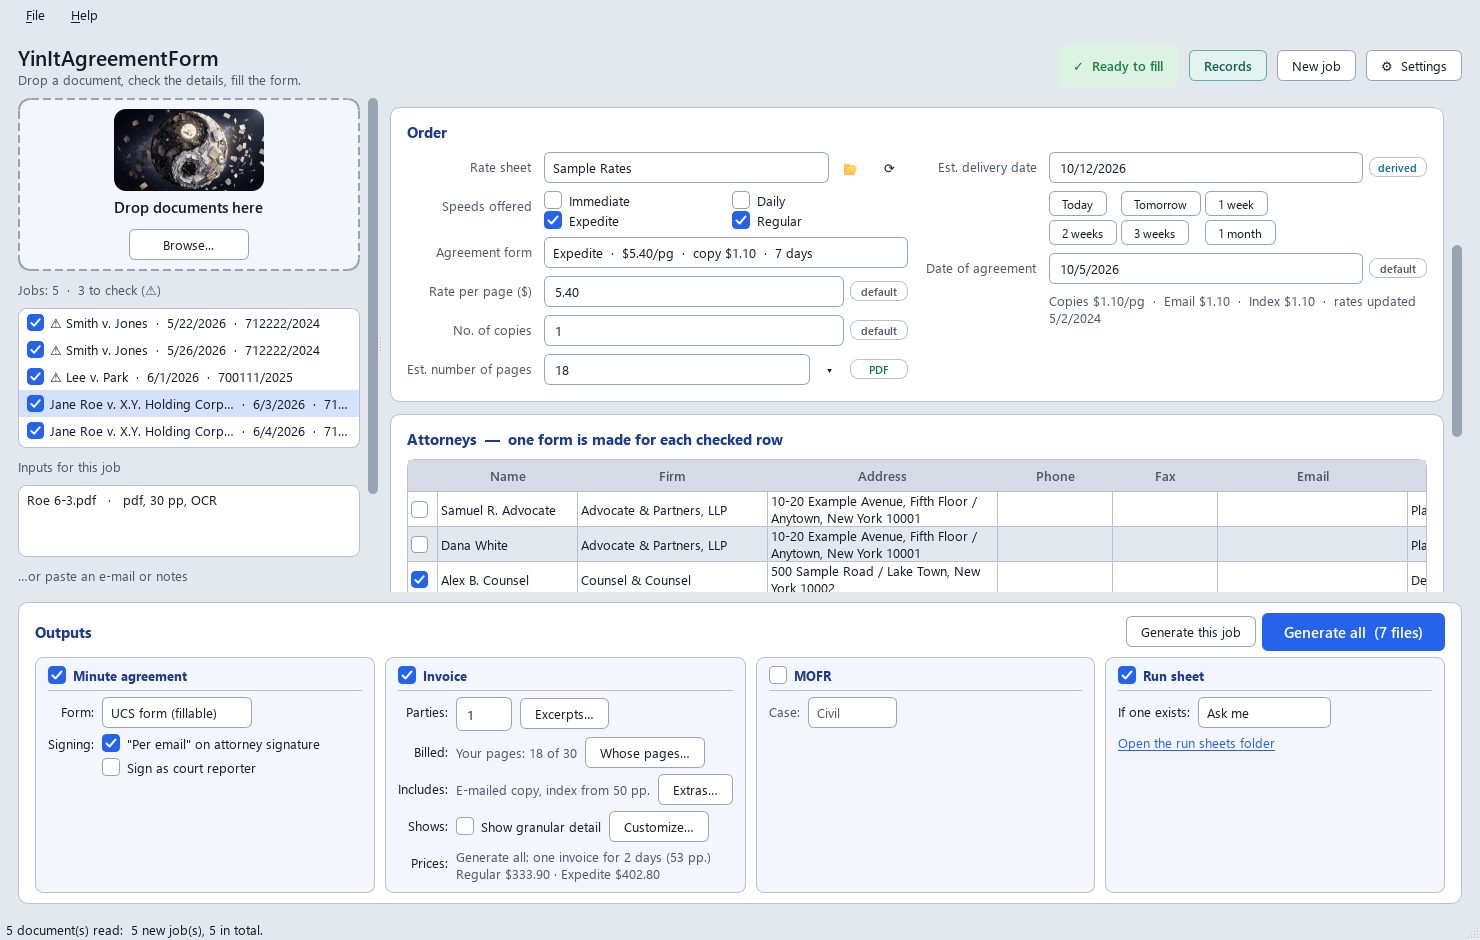
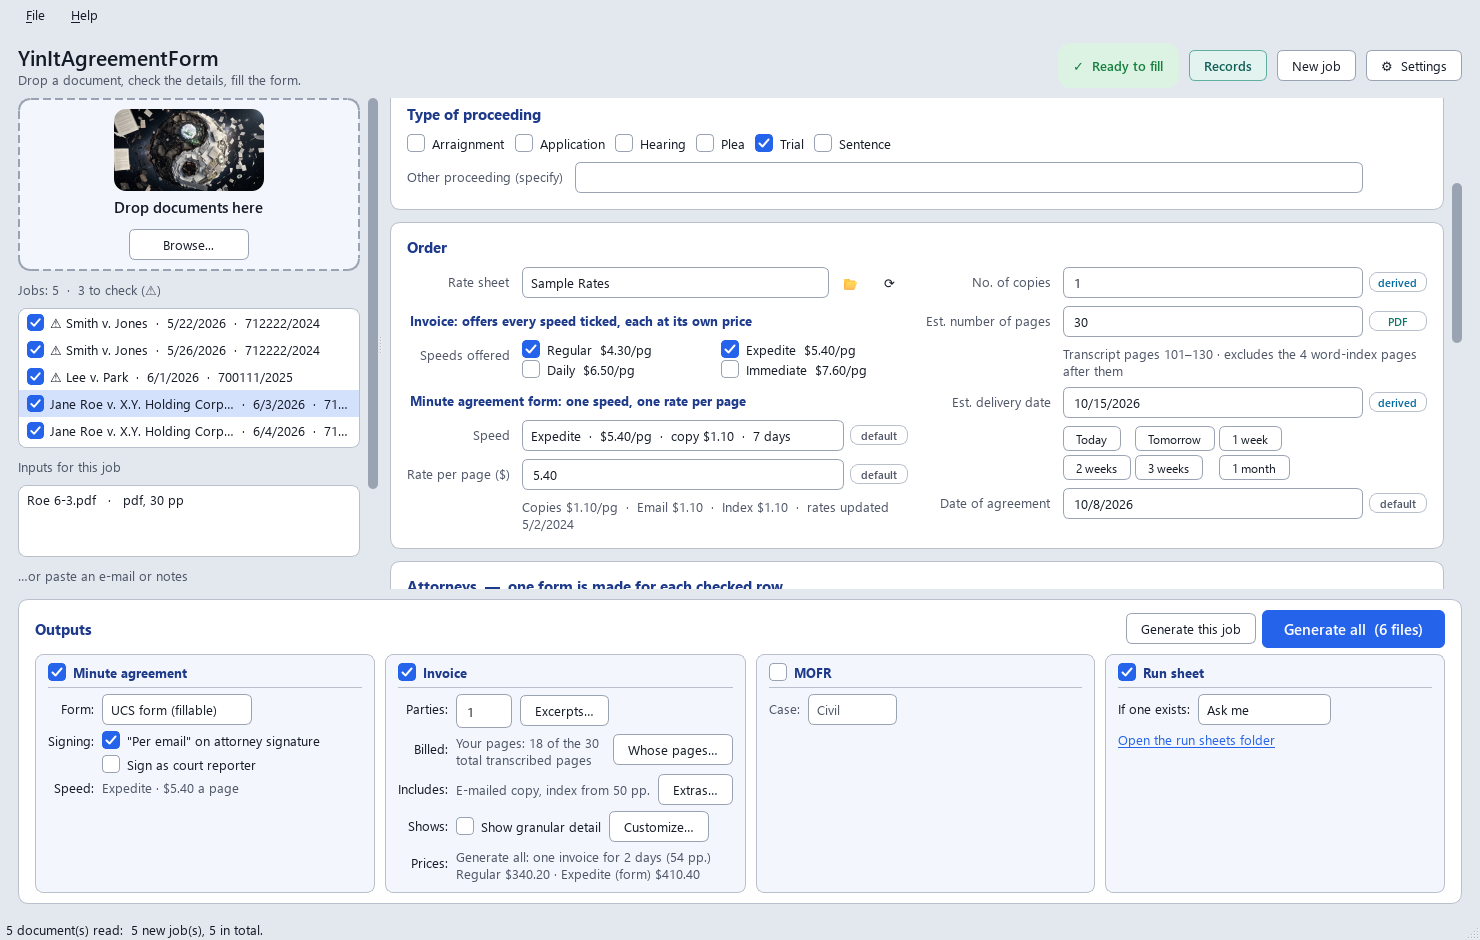
Website and README for 2.4.0: the line under the page count, its four readings, the records suggestion

diff --git a/docs/index.html b/docs/index.html
@@ -79,7 +79,7 @@
     <h2>How to use it</h2>
     <ol class="steps">
       <li><b>Drop it in</b>A PDF (transcript, invoice), a photo, or paste the e-mail text or a screenshot with Ctrl+V.</li>
-      <li><b>Check the details</b>Every field shows where it came from. Guesses are highlighted, and a list offers other candidates.</li>
+      <li><b>Check the details</b>Every field shows where it came from. Guesses are highlighted, and a list offers other candidates. No case name in the document? An earlier job with the same index number in your records suggests one, highlighted for you to check.</li>
       <li><b>Tick who ordered, and the speeds</b>Tick the firms who ordered: a firm is one row, naming all its attorneys on the title page, and gets one invoice and one agreement (No. of copies follows). Two rows that might be one firm, "Smith Law" and "Smith Law Group"? You're asked, <b>Same firm</b> or <b>Not the same</b>, and the app remembers your answer (untick <b>Remember</b> to answer for now only; Settings &rarr; Invoice lists your answers, so you can forget one). Under Order, tick the speeds you offer, once: the invoice lists them all, each at its own price, and the agreement form names one speed at one rate, Expedited when you offer it, unless you pick another. An e-mail asking for another speed? It's pointed out, and Generate asks you which. <b>Who pays what</b>, under the attorneys, shows each firm's invoice in short as you tick. Rates and the estimated delivery date follow your rate sheet.</li>
       <li><b>Generate</b>Tick what to make in the Outputs box: minute agreement, invoice, MOFR, run sheet, each with its own options. You see every file, and the math, before anything is saved; then the PDFs are saved, one per attorney you tick, and the run sheet gets the day's takes. Ctrl+Enter does it from the keyboard.</li>
     </ol>
@@ -92,7 +92,7 @@
       <h2>A hundred orders? Drop the whole folder.</h2>
       <p>Batch mode reads any number of documents and sorts them into one job per case and date. A transcript and its invoice make one form, not two. Two days of the same case make two jobs, but <b>Generate all</b> gives each firm <b>one invoice</b> and one minute agreement for all the days it ordered, and the trial one MOFR (Settings &rarr; Options switches back to forms for each day). Tick the jobs you want and press <b>Generate all</b>: the preview shows every file and the math first, and nothing is saved until you say so. A ⚠ next to a job means something to check; hover over it to see what.</p>
     </div>
-    <img class="shot" src="batch.png" alt="Batch mode: five jobs on the left, a trial day two reporters wrote, its speeds offered and page count, and the Outputs box with Run sheet ticked">
+    <img class="shot" src="batch.png" alt="Batch mode: five jobs on the left, a trial day two reporters wrote, its speeds offered and page count (Transcript pages 101 to 130, excluding the 4 word-index pages), your 18 of its 30 pages billed, and the Outputs box with Run sheet ticked">
   </div>
 </section>
 
@@ -111,7 +111,7 @@
     <img class="shot" src="invoice.png" alt="One invoice for two days of a case, listing the Regular and Expedite amounts">
     <div>
       <h2>Invoices from your transcripts</h2>
-      <p>Drop a transcript PDF and tick <b>Invoice</b>. The page count and your rate sheet price the original, each party's copy and e-mailed copy, and an index for long transcripts, split between the ordering parties. The speeds you tick under Order (Regular and Expedited to start with) are the ones the invoice offers, each with its turnaround and amount, and with how to pay you. The agreement form names one of them, at one rate per page: Expedited when you offer it, otherwise the slowest. Settings &rarr; Invoice changes that rule, and the <b>Speed</b> dropdown under Order changes it for one job. No transcript, just a caption page? Type the pages in <b>Est. number of pages</b> and the invoice bills them. Want the page count, the pages of each day and the charges spelled out for this job? Tick <b>Show granular detail</b>, and choose what it shows. <b>Extras…</b> drops the e-mailed copy or adds an index for one job. The notes on the invoice are yours to write, too: place them where you like and have them show only when they apply ("delivered once every party has paid" only when several parties ordered).</p>
+      <p>Drop a transcript PDF and tick <b>Invoice</b>. The page count leaves out the word index printed after the transcript, and the line under it says so: "Transcript pages 378&ndash;460 &middot; excludes the 13 word-index pages after them". It is counted four ways (up to the index, by the line numbers, by the printed page numbers, and the index found from the end); if they disagree, or the index would be more than a quarter of the PDF, the field turns amber and tells you why. The page count and your rate sheet price the original, each party's copy and e-mailed copy, and an index for long transcripts, split between the ordering parties. The speeds you tick under Order (Regular and Expedited to start with) are the ones the invoice offers, each with its turnaround and amount, and with how to pay you. The agreement form names one of them, at one rate per page: Expedited when you offer it, otherwise the slowest. Settings &rarr; Invoice changes that rule, and the <b>Speed</b> dropdown under Order changes it for one job. No transcript, just a caption page? Type the pages in <b>Est. number of pages</b> and the invoice bills them. Want the page count, the pages of each day and the charges spelled out for this job? Tick <b>Show granular detail</b>, and choose what it shows. <b>Extras…</b> drops the e-mailed copy or adds an index for one job. The notes on the invoice are yours to write, too: place them where you like and have them show only when they apply ("delivered once every party has paid" only when several parties ordered).</p>
       <p>Shared the trial with another reporter? The invoice bills only <b>your</b> pages, the ones with your initials at the foot: 65 of a 150-page transcript, say. <b>Whose pages…</b> lets you tick <b>My pages</b>, another reporter's pages, or <b>The whole transcript</b>, and the app asks when it can't tell. Each other reporter you tick gets invoices for their own pages, in their name, with their address and payment details (Settings &rarr; Run sheet &rarr; Invoices for, or <b>Details…</b>), numbered apart from yours (DS-2026-0001), with file names that say whose they are. Sample shown uses made-up names.</p>
     </div>
   </div>

diff --git a/README.md b/README.md
@@ -50,7 +50,7 @@ Drop in a transcript, invoice, or photo of a court document, or paste an e-mail.
 
    You can add several inputs for one job, and their results are combined.
 2. **Check the fields.**
-   - Each field has a badge showing where its value came from: **regex** (found in the document), **PDF** (the page count, counted from the transcript PDF itself), **records** (a case name an earlier job with the same index number has in your records: a suggestion to check, used when the document gives none surer), **AI**, **default** (your settings), **derived** (calculated), or **you**.
+   - Each field has a badge showing where its value came from: **regex** (found in the document), **PDF** (the page count, counted from the transcript PDF itself), **records** (a case name an earlier job with the same index number has in your records: a suggestion, used when the document gives none surer, always highlighted, and *Generate* asks you to confirm it; when the document gives the case in other words, the recorded wording is offered in the ▾ list), **AI**, **default** (your settings), **derived** (calculated), or **you**.
    - Amber fields are guesses. A ▾ button lists other candidates.
 3. **Tick the attorney(s) who ordered** (a transcript lists everyone who appeared, not who ordered). The Attorneys table has **one row per firm**: each firm or office on the title page's APPEARANCES (a city agency such as the Corporation Counsel too, or a party appearing without an attorney) with all of its attorneys named in one row ("Alex B. Counsel, Dana Smith"), its address, and whom it represents. A firm is one party: one minute agreement and one invoice, however many of its attorneys appeared. An e-mail from one of its attorneys, or the same firm on another day's transcript, joins its row. When two rows only may be one firm ("Smith Law" and "Smith Law Group", or "Mr. Smith" and Dana Smith of Smith Law), they are not joined without asking: the Attorneys card asks *Are these one firm?* (**Same firm** / **Not the same**), and so does Generate before it makes anything. With *Remember* ticked (the default), your answer is kept for later documents too; unticked, it holds until you close the app. *Settings → Invoice → Firms you answered* lists the answers (those given for now are marked so): **Forget** one, or **Forget all**, and the jobs open now are read again, so you're asked again at once. *No. of copies* is the number of ordering parties, as the invoice counts them: the firms ticked, or the *Parties* number of the Invoice panel when you change it (not on a day split under *Excerpts…*: there it is the firms that ordered pages, and Generate asks when a *Parties* number you set says otherwise). It follows every change of who is ticked (in the table, in *Excerpts…*, or when you're asked who ordered), unless you typed a number.
 4. **Pick the rate sheet and tick the speeds** the invoice offers, under Order → *Invoice* (*Speeds offered*). Under Order → *Minute agreement form*, the *Speed* dropdown shows the one speed the minute agreement names, at one rate per page: Expedited when you offer it, otherwise the slowest offered (Settings → Invoice → *Agreement form speed*); choose another there for this job. When an e-mail asks for another speed, an amber line there asks you to choose (*Keep* keeps the one shown), and *Generate* asks too.
